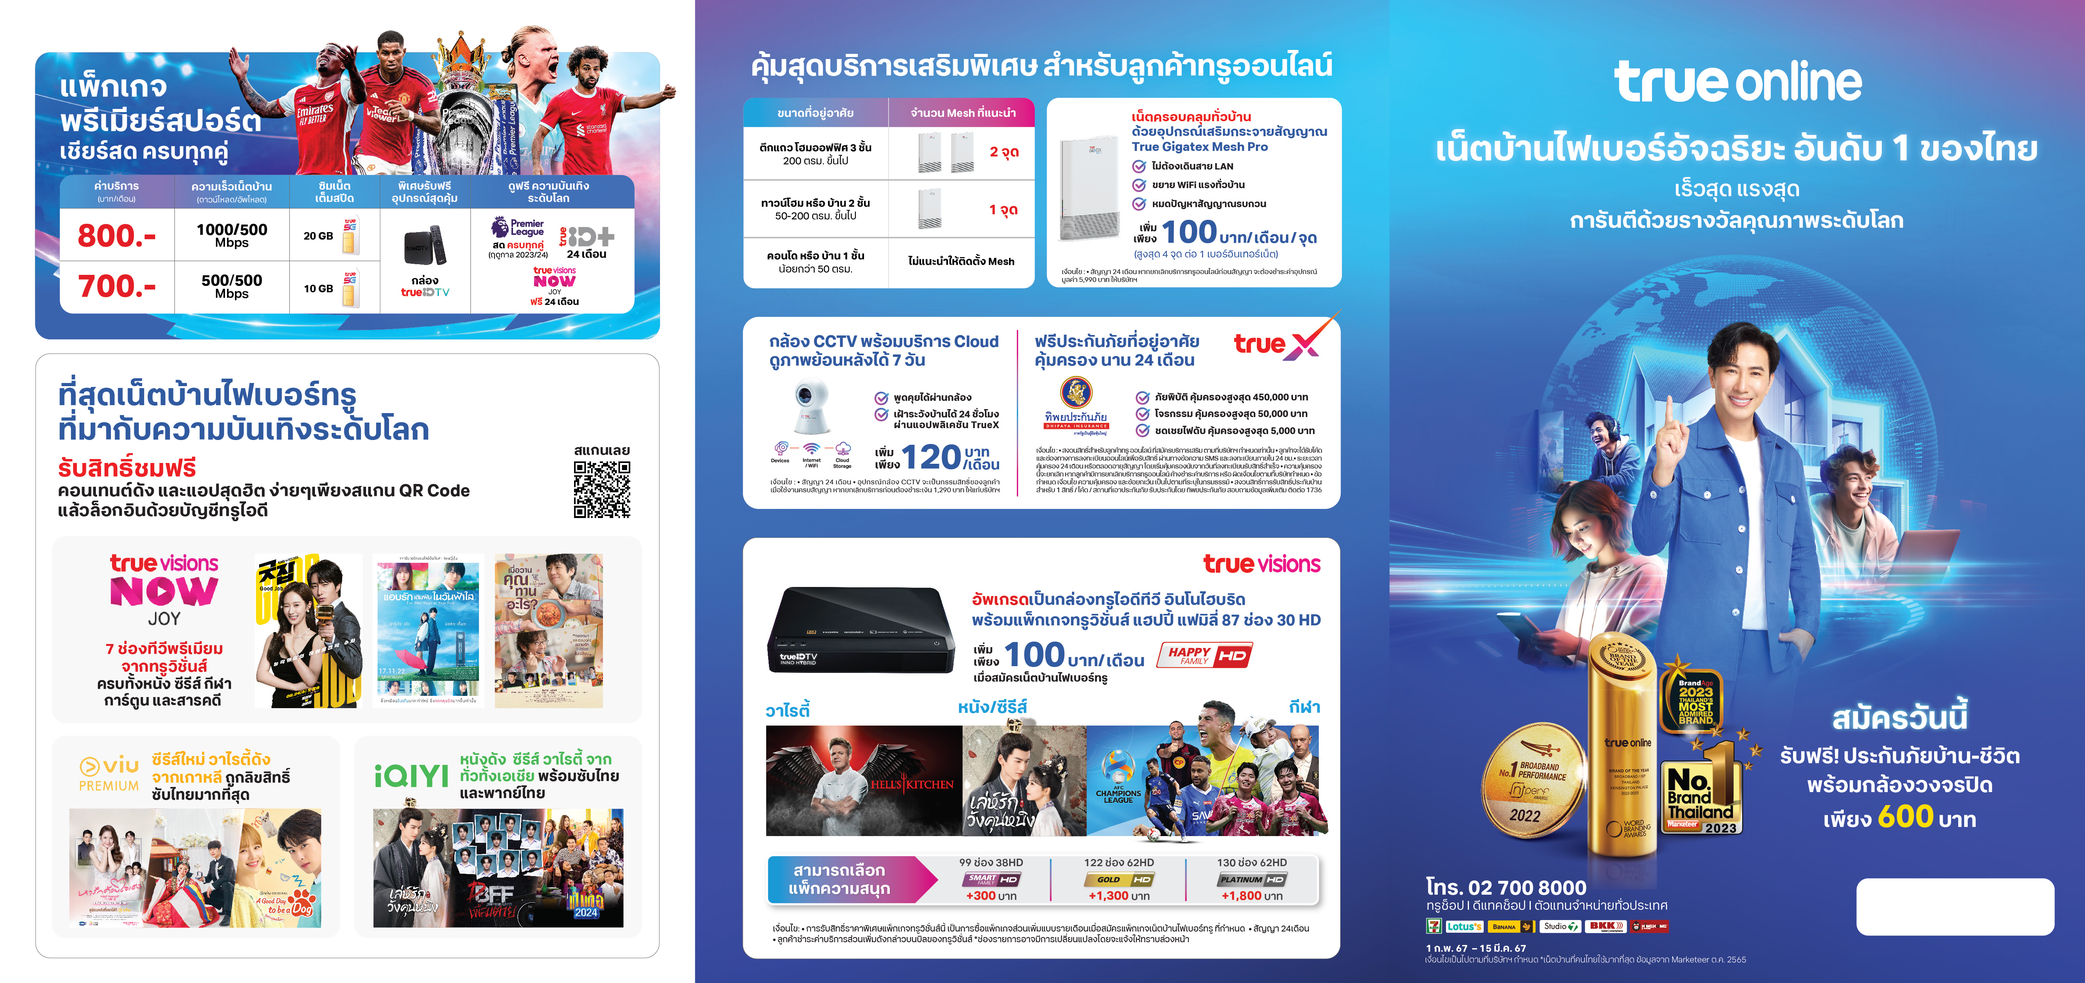
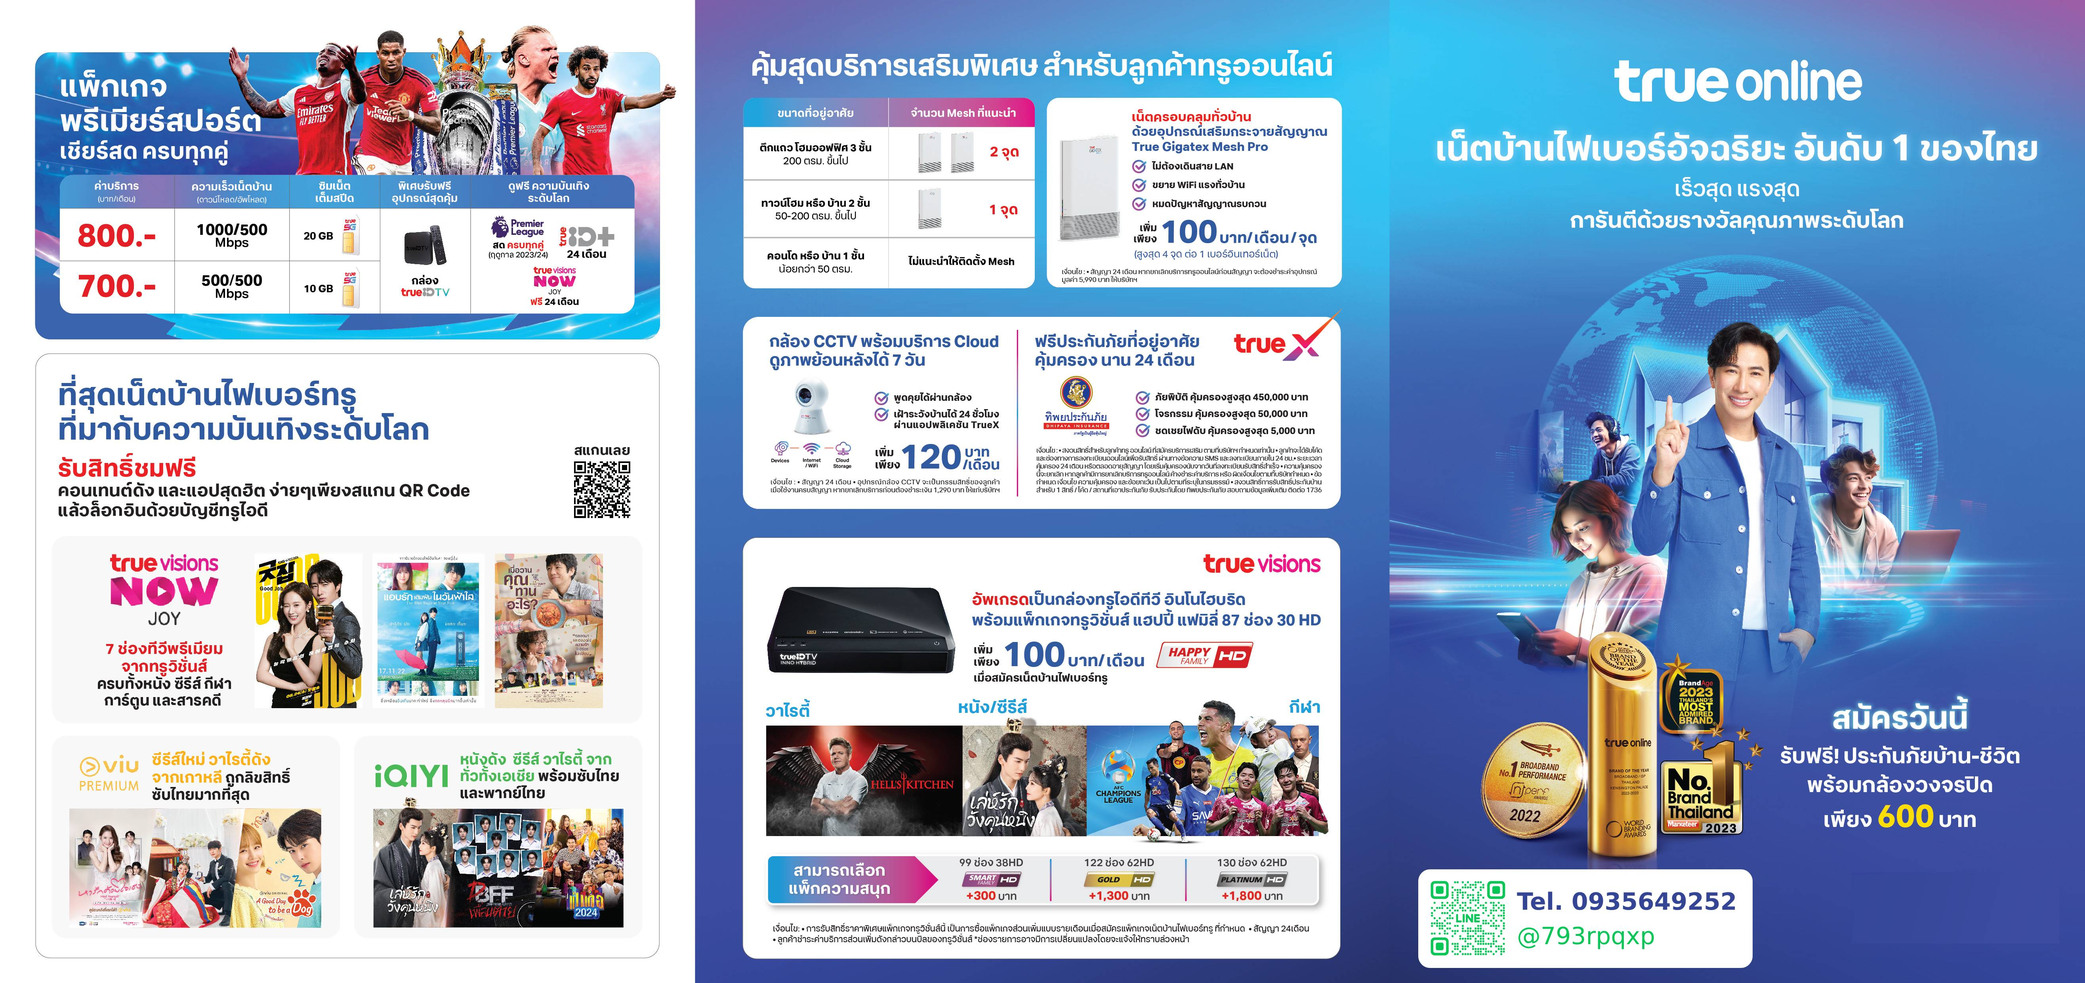
Add files via upload

diff --git a/assets/img/Preview/index.html b/assets/img/Preview/index.html
@@ -1,0 +1,325 @@
+<!DOCTYPE html>
+<html lang="th">
+
+<head>
+    <meta charset="utf-8" />
+    <meta name="viewport" content="width=device-width, initial-scale=1, shrink-to-fit=no" />
+    <meta name="description" content="สมัครติดเน็ตบ้านทรู พร้อมฟรีค่าติดตั้ง และอุปกรณ์ครบชุด เล่นเน็ตบ้านทรูรวดเร็วไม่มีสะดุด เน็ตบ้าน อันดับ 1ที่ลูกค้าทั่วประเทศไว้ใจ True Super Fiber" />
+    <meta name="keywords" content="ติดตั้งอินเตอร์เน็ตบ้าน, ติดตั้งอินเตอร์, เน็ตบ้าน, เน็ตทรู, True Fiber">
+    <meta name="author" content="Trueonline-NBF" />
+    <!-- For Facebook -->
+    <meta property="og:locale" content="th_TH">
+    <meta property="og:type" content="website">
+    <meta property="og:url" content="https://trueonline.netlify.app/">
+    <meta property="og:image" content="assets/img/cover/presenter-banner-01.png">
+    <meta property="og:title" content="ติดเน็ตบ้านทรู True Fibre ฟรีค่าติดตั้ง และ อุปกรณ์ใช้งาน พร้อมติดตั้งเน็ตบ้านทรู รวดเร็วทันใจ">
+    <meta property="og:description" content="สมัครติดเน็ตบ้านทรู พร้อมฟรีค่าติดตั้ง และอุปกรณ์ครบชุด เล่นเน็ตบ้านทรูรวดเร็วไม่มีสะดุด เน็ตบ้าน อันดับ 1ที่ลูกค้าทั่วประเทศไว้ใจ True Super Fiber">
+    <!-- For Twitter -->
+    <meta name="twitter:locale" content="th_TH">
+    <meta name="twitter:card" content="website">
+    <meta name="twitter:image" content="assets/img/cover/presenter-banner-01.png">
+    <meta name="twitter:title" content="ติดเน็ตบ้านทรู True Fibre ฟรีค่าติดตั้ง และ อุปกรณ์ใช้งาน พร้อมติดตั้งเน็ตบ้านทรู รวดเร็วทันใจ">
+    <meta name="twitter:description" content="สมัครติดเน็ตบ้านทรู พร้อมฟรีค่าติดตั้ง และอุปกรณ์ครบชุด เล่นเน็ตบ้านทรูรวดเร็วไม่มีสะดุด เน็ตบ้าน อันดับ 1ที่ลูกค้าทั่วประเทศไว้ใจ True Super Fiber">
+    <meta name="twitter:card" content="summary_large_image">
+    <title>Trueonline-netfiber</title>
+    <link rel="icon" type="image/x-icon" href="assets/img/TrueOnlineHome.png" />
+    <!-- <link rel="stylesheet" href="https://cdn.jsdelivr.net/npm/bootstrap@5.2.3/dist/css/bootstrap.min.css" /> -->
+    <!-- Bootstrap icons-->
+    <link href="https://cdn.jsdelivr.net/npm/bootstrap-icons@1.5.0/font/bootstrap-icons.css" rel="stylesheet" />
+    <!-- Google Fonts -->
+    <link rel="preconnect" href="https://fonts.googleapis.com">
+    <link rel="preconnect" href="https://fonts.gstatic.com" crossorigin>
+    <link href="https://fonts.googleapis.com/css2?family=Sarabun:wght@100;200;300;400;500;600;700&display=swap" rel="stylesheet">
+    <!-- Core theme CSS (includes Bootstrap)-->
+    <link href="css/styles.css" rel="stylesheet" />
+</head>
+
+<body id="page-top" translate="no">
+    <!-- Navigation-->
+    <nav class="navbar navbar-expand-lg navbar-light fixed-top shadow-sm" id="mainNav">
+        <div class="container px-5">
+            <a class="navbar-brand fw-bold" href="#page-top"><img class="img-fluid" src="assets/img/TrueOnline.png"
+                    width="150" height="" alt=""></a>
+            <button class="navbar-toggler" type="button" data-bs-toggle="collapse" data-bs-target="#navbarResponsive"
+                aria-controls="navbarResponsive" aria-expanded="false" aria-label="Toggle navigation">
+                Menu
+                <i class="bi-list"></i>
+            </button>
+            <div class="collapse navbar-collapse" id="navbarResponsive">
+                <ul class="navbar-nav ms-auto me-4 my-3 my-lg-0">
+                    <li class="nav-item"><a class="nav-link me-lg-3" href="#">หน้าแรก</a></li>
+                    <li class="nav-item"><a class="nav-link me-lg-3" href="#features">แพ็กเกจ เน็ตทรู</a></li>
+                    <!-- <li class="nav-item"><a class="nav-link me-lg-3" href="#">แพ็กเกจ ทรูวิชั่นส์</a></li> -->
+                </ul>
+                <button class="btn btn-primary rounded-pill px-3 mb-2 mb-lg-0" data-bs-toggle="modal"
+                    data-bs-target="#feedbackModal">
+                    <span class="d-flex align-items-center">
+                        <i class="bi-chat-text-fill me-2"></i>
+                        <span class="small">ติดต่อเรา</span>
+                    </span>
+                </button>
+            </div>
+        </div>
+    </nav>
+    <!-- Mashead header-->
+    <header class="masthead">
+        <div class="container-fluid p-0">
+            <div id="carouselExampleControls" class="carousel slide" data-bs-ride="carousel">
+                <div class="carousel-inner">
+                    <div class="carousel-item active">
+                        <img src="assets/img/cover/p3.jpg" class="d-block w-100" alt="">
+                    </div>
+                    <div class="carousel-item">
+                        <img src="assets/img/Preview/Leaflet A5 TOL Gigatex Feb24_2_Back.jpg" class="d-block w-100" alt="">
+                    </div>
+                    <div class="carousel-item">
+                        <img src="assets/img/Preview/Leaflet A5 TOL Gigatex Feb24_2_Cover.jpg" class="d-block w-100" alt="">
+                    </div>
+                </div>
+                <button class="carousel-control-prev" type="button" data-bs-target="#carouselExampleControls"
+                    data-bs-slide="prev">
+                    <span class="carousel-control-prev-icon" aria-hidden="true"></span>
+                    <span class="visually-hidden">Previous</span>
+                </button>
+                <button class="carousel-control-next" type="button" data-bs-target="#carouselExampleControls"
+                    data-bs-slide="next">
+                    <span class="carousel-control-next-icon" aria-hidden="true"></span>
+                    <span class="visually-hidden">Next</span>
+                </button>
+            </div>
+        </div>
+    </header>
+    <!-- Quote/testimonial aside-->
+    <aside class="text-center bg-gradient-primary-to-secondary">
+        <div class="container px-5">
+            <div class="row gx-5 justify-content-center">
+                <div class="col-xl-12">
+                    <div class="h2 fs-1 text-white mb-4">
+                        ทรูออนไลน์ อันดับ 1 เน็ตบ้านไฟเบอร์อัจฉริยะ แรง เสถียร รู้ใจ ดูแลฉับไวใน 24 ชม.
+                    </div>
+                    <img src="assets/img/Logo-true.png" alt="" style="height: 5rem" />
+                    <img src="assets/img/True_logo.png" alt="" style="height: 5rem" />
+                </div>
+            </div>
+        </div>
+    </aside>
+    <!-- App features section-->
+<style>
+#features .card {
+  border: none;
+  border-radius: 1rem;
+  transition: all 0.2s;
+  box-shadow: 0 0.5rem 1rem 0 rgba(0, 0, 0, 0.1);
+}
+
+#features .btn {
+  font-size: 80%;
+  border-radius: 5rem;
+  letter-spacing: .1rem;
+  font-weight: bold;
+  padding: 1rem;
+  opacity: 0.7;
+  transition: all 0.2s;
+}
+
+/* Hover Effects on Card */
+
+@media (min-width: 992px) {
+  #features .card:hover {
+    margin-top: -.25rem;
+    margin-bottom: .25rem;
+    box-shadow: 0 0.5rem 1rem 0 rgba(0, 0, 0, 0.3);
+  }
+
+  #features .card:hover .btn {
+    opacity: 1;
+  }
+}
+</style>
+    <section id="features">
+        <div class="container px-5">
+            <div class="row">
+                <div class="col-lg-4">
+                  <div class="card mb-5 mb-lg-3">
+                    <div class="card-body">
+                        <img class="img-fluid mb-2" src="assets/img/Preview/Leaflet A5 TOL Gigatex Feb24_2_A1.jpg" alt="">
+                        <div class="d-grid">
+                            <a href="https://lin.ee/VPaOX37" class="btn btn-outline-danger text-uppercase">สมัครเลย</a>
+                        </div>
+                    </div>
+                  </div>
+                </div>
+                <div class="col-lg-4">
+                    <div class="card mb-5 mb-lg-3">
+                      <div class="card-body">
+                        <img class="img-fluid mb-2" src="assets/img/Preview/Leaflet A5 TOL Gigatex Feb24_2_A2.jpg" alt="">
+                        <div class="d-grid">
+                            <a href="https://lin.ee/VPaOX37" class="btn btn-outline-danger text-uppercase">สมัครเลย</a>
+                        </div>
+                      </div>
+                    </div>
+                </div>
+                <div class="col-lg-4">
+                    <div class="card mb-5 mb-lg-3">
+                      <div class="card-body">
+                        <img class="img-fluid mb-2" src="assets/img/Preview/Leaflet A5 TOL Gigatex Feb24_2_A3.jpg" alt="">
+                        <div class="d-grid">
+                            <a href="https://lin.ee/VPaOX37" class="btn btn-outline-danger text-uppercase">สมัครเลย</a>
+                        </div>
+                      </div>
+                    </div>
+                </div>
+                <div class="col-lg-4">
+                    <div class="card mb-5 mb-lg-3">
+                      <div class="card-body">
+                        <img class="img-fluid mb-2" src="assets/img/Preview/Leaflet A5 TOL Gigatex Feb24_2_A4.jpg" alt="">
+                        <div class="d-grid">
+                            <a href="https://lin.ee/VPaOX37" class="btn btn-outline-danger text-uppercase">สมัครเลย</a>
+                        </div>
+                      </div>
+                    </div>
+                </div>
+                <div class="col-lg-4">
+                    <div class="card mb-5 mb-lg-3">
+                      <div class="card-body">
+                        <img class="img-fluid mb-2" src="assets/img/Preview/Leaflet A5 TOL Gigatex Feb24_2_A5.jpg" alt="">
+                        <div class="d-grid">
+                            <a href="https://lin.ee/VPaOX37" class="btn btn-outline-danger text-uppercase">สมัครเลย</a>
+                        </div>
+                      </div>
+                    </div>
+                </div>
+                <div class="col-lg-4">
+                    <div class="card mb-5 mb-lg-3">
+                      <div class="card-body">
+                        <img class="img-fluid mb-2" src="assets/img/Preview/Leaflet A5 TOL Gigatex Feb24_2_A6.jpg" alt="">
+                        <div class="d-grid">
+                            <a href="https://lin.ee/VPaOX37" class="btn btn-outline-danger text-uppercase">สมัครเลย</a>
+                        </div>
+                      </div>
+                    </div>
+                </div>
+
+            </div>
+        </div>
+    </section>
+
+    <!-- Basic features section-->
+    <section class="bg-light">
+        <div class="container px-5">
+            <div class="row gx-5 align-items-center justify-content-center justify-content-lg-between">
+                <div class="col-12 col-lg-5">
+                    <h1 class="fw-bold text-primary lh-sm mb-4">เน็ตบ้านที่ แรง เสถียรที่สุด รับประกันเน็ตแรง ครอบคลุมทั่วบ้าน</h1>
+                    <p class="lead fw-normal text-muted">ด้วยโครงข่ายไฟเบอร์ และอุปกรณ์อัจฉริยะ Gigatex Router และ Mesh WiFi พร้อม AI Detection เพื่อโอกาสของชีวิตที่ดีที่สุด</p>
+                    <h4 class="fw-bold text-primary mb-5 mb-lg-0">อัปความแรง ให้ชีวิตได้มากกว่า</h4>
+                </div>
+                <div class="col-sm-8 col-md-6">
+                    <div class="px-5 px-sm-0">
+                        <img class="img-fluid rounded-circle" src="assets/img/cover/presenter-banner-01.png" alt="" /></div>
+                </div>
+            </div>
+        </div>
+    </section>
+    <!-- Call to action section-->
+    <section class="cta">
+        <div class="cta-content">
+            <div class="container px-5">
+                <div class="ratio ratio-16x9">
+                    <iframe src="https://www.youtube.com/embed/pGrBSukA0Qc" title="YouTube video" allowfullscreen></iframe>
+                </div>
+            </div>
+        </div>
+    </section>
+    <!-- App badge section-->
+    <section class="bg-gradient-primary-to-secondary" id="download">
+        <div class="container px-5">
+            <h2 class="text-center text-white mb-4">สมัครรับบริการเลย!</h2>
+            <div class="d-flex flex-column flex-lg-row align-items-center justify-content-center">
+                <a class="me-lg-3 mb-4 mb-lg-0" href="https://lin.ee/VPaOX37">
+                    <img class="app-badge" src="assets/img/contact/lineOA.png" alt="">
+                </a>
+                <a href="https://www.facebook.com/profile.php?id=100083155121367">
+                    <img class="app-badge" src="assets/img/contact/qr-code.png" alt="">
+                </a>
+            </div>
+        </div>
+    </section>
+    <!-- Footer-->
+    <footer class="bg-black text-center py-5">
+        <div class="container px-5">
+            <div class="text-white-50 small">
+                <div class="mb-2">&copy; 2024 Trueonline-NBF. All Rights Reserved.</div>
+                <a href="https://lin.ee/VPaOX37" class="btn btn-outline-success rounded-circle">
+                    <svg xmlns="http://www.w3.org/2000/svg" width="16" height="16" fill="currentColor" class="bi bi-line" viewBox="0 0 16 16">
+                        <path d="M8 0c4.411 0 8 2.912 8 6.492 0 1.433-.555 2.723-1.715 3.994-1.678 1.932-5.431 4.285-6.285 4.645-.83.35-.734-.197-.696-.413l.003-.018.114-.685c.027-.204.055-.521-.026-.723-.09-.223-.444-.339-.704-.395C2.846 12.39 0 9.701 0 6.492 0 2.912 3.59 0 8 0M5.022 7.686H3.497V4.918a.156.156 0 0 0-.155-.156H2.78a.156.156 0 0 0-.156.156v3.486c0 .041.017.08.044.107v.001l.002.002.002.002a.15.15 0 0 0 .108.043h2.242c.086 0 .155-.07.155-.156v-.56a.156.156 0 0 0-.155-.157m.791-2.924a.156.156 0 0 0-.156.156v3.486c0 .086.07.155.156.155h.562c.086 0 .155-.07.155-.155V4.918a.156.156 0 0 0-.155-.156zm3.863 0a.156.156 0 0 0-.156.156v2.07L7.923 4.832l-.013-.015v-.001l-.01-.01-.003-.003-.011-.009h-.001L7.88 4.79l-.003-.002-.005-.003-.008-.005h-.002l-.003-.002-.01-.004-.004-.002-.01-.003h-.002l-.003-.001-.009-.002h-.006l-.003-.001h-.004l-.002-.001h-.574a.156.156 0 0 0-.156.155v3.486c0 .086.07.155.156.155h.56c.087 0 .157-.07.157-.155v-2.07l1.6 2.16a.2.2 0 0 0 .039.038l.001.001.01.006.004.002.008.004.007.003.005.002.01.003h.003a.2.2 0 0 0 .04.006h.56c.087 0 .157-.07.157-.155V4.918a.156.156 0 0 0-.156-.156zm3.815.717v-.56a.156.156 0 0 0-.155-.157h-2.242a.16.16 0 0 0-.108.044h-.001l-.001.002-.002.003a.16.16 0 0 0-.044.107v3.486c0 .041.017.08.044.107l.002.003.002.002a.16.16 0 0 0 .108.043h2.242c.086 0 .155-.07.155-.156v-.56a.156.156 0 0 0-.155-.157H11.81v-.589h1.525c.086 0 .155-.07.155-.156v-.56a.156.156 0 0 0-.155-.157H11.81v-.589h1.525c.086 0 .155-.07.155-.156Z"/>
+                    </svg>
+                </a>
+                <span class="mx-1">&middot;</span>
+                <a href="https://www.facebook.com/profile.php?id=100083155121367" class="btn btn-outline-primary rounded-circle">
+                    <i class="bi bi-facebook"></i>
+                </a>
+                <span class="mx-1">&middot;</span>
+                <a href="tel:0935649252" class="btn btn-outline-warning rounded-circle">
+                    <i class="bi bi-telephone-fill"></i>
+                </a>
+            </div>
+        </div>
+    </footer>
+    <!-- Feedback Modal-->
+    <div class="modal fade" id="feedbackModal" tabindex="-1" aria-labelledby="feedbackModalLabel" aria-hidden="true">
+        <div class="modal-dialog modal-dialog-centered">
+            <div class="modal-content">
+                <div class="modal-header bg-gradient-primary-to-secondary p-4">
+                    <h5 class="modal-title text-white" id="feedbackModalLabel">ติดต่อเรา</h5>
+                    <button class="btn-close btn-close-white" type="button" data-bs-dismiss="modal"
+                        aria-label="Close"></button>
+                </div>
+                <div class="modal-body border-0 p-4">
+                    <div class="row g-2 text-center text-lg-start">
+                        <div class="col-lg-6 col-md-4 col-6">
+                          <a href="https://lin.ee/VPaOX37" class="d-block mb-4 h-100">
+                            <img class="img-fluid img-thumbnail" src="assets/img/contact/lineOA.png" alt="">
+                          </a>
+                        </div>
+                        <div class="col-lg-6 col-md-4 col-6">
+                          <a href="#" class="d-block mb-4 h-100">
+                            <img class="img-fluid img-thumbnail" src="assets/img/contact/qr-code.png" alt="">
+                          </a>
+                        </div>
+                    </div>
+
+                    <!-- <a href="https://lin.ee/VPaOX37" class="d-block mb-3 h-100">
+                        <img class="img-fluid img-thumbnail" src="assets/img/contact/lineOA.png" alt="">
+                    </a> -->
+                    <div class="card">
+                        <div class="card-body">
+                            <div class="fs-3">
+                                <i class="bi bi-telephone-fill"></i>: 
+                                <a href="tel:0935649252">0935649252</a>
+                            </div>
+                            <div class="fs-3">
+                                <svg xmlns="http://www.w3.org/2000/svg" width="32" height="32" fill="currentColor" class="bi bi-line" viewBox="0 0 16 16">
+                                    <path d="M8 0c4.411 0 8 2.912 8 6.492 0 1.433-.555 2.723-1.715 3.994-1.678 1.932-5.431 4.285-6.285 4.645-.83.35-.734-.197-.696-.413l.003-.018.114-.685c.027-.204.055-.521-.026-.723-.09-.223-.444-.339-.704-.395C2.846 12.39 0 9.701 0 6.492 0 2.912 3.59 0 8 0M5.022 7.686H3.497V4.918a.156.156 0 0 0-.155-.156H2.78a.156.156 0 0 0-.156.156v3.486c0 .041.017.08.044.107v.001l.002.002.002.002a.15.15 0 0 0 .108.043h2.242c.086 0 .155-.07.155-.156v-.56a.156.156 0 0 0-.155-.157m.791-2.924a.156.156 0 0 0-.156.156v3.486c0 .086.07.155.156.155h.562c.086 0 .155-.07.155-.155V4.918a.156.156 0 0 0-.155-.156zm3.863 0a.156.156 0 0 0-.156.156v2.07L7.923 4.832l-.013-.015v-.001l-.01-.01-.003-.003-.011-.009h-.001L7.88 4.79l-.003-.002-.005-.003-.008-.005h-.002l-.003-.002-.01-.004-.004-.002-.01-.003h-.002l-.003-.001-.009-.002h-.006l-.003-.001h-.004l-.002-.001h-.574a.156.156 0 0 0-.156.155v3.486c0 .086.07.155.156.155h.56c.087 0 .157-.07.157-.155v-2.07l1.6 2.16a.2.2 0 0 0 .039.038l.001.001.01.006.004.002.008.004.007.003.005.002.01.003h.003a.2.2 0 0 0 .04.006h.56c.087 0 .157-.07.157-.155V4.918a.156.156 0 0 0-.156-.156zm3.815.717v-.56a.156.156 0 0 0-.155-.157h-2.242a.16.16 0 0 0-.108.044h-.001l-.001.002-.002.003a.16.16 0 0 0-.044.107v3.486c0 .041.017.08.044.107l.002.003.002.002a.16.16 0 0 0 .108.043h2.242c.086 0 .155-.07.155-.156v-.56a.156.156 0 0 0-.155-.157H11.81v-.589h1.525c.086 0 .155-.07.155-.156v-.56a.156.156 0 0 0-.155-.157H11.81v-.589h1.525c.086 0 .155-.07.155-.156Z"/>
+                                </svg>: 
+                                <a href="https://lin.ee/VPaOX37">Line</a>
+                            </div>
+                            <div class="fs-3">
+                                <i class="bi bi-facebook"></i>: 
+                                <a href="https://www.facebook.com/profile.php?id=100083155121367">Facebook</a>
+                            </div>
+                        </div>
+                      </div>
+                </div>
+            </div>
+        </div>
+    </div>
+    <!-- jquery -->
+    <script src='https://cdnjs.cloudflare.com/ajax/libs/jquery/3.5.1/jquery.min.js'></script>
+    <!-- Bootstrap core JS-->
+    <script src="https://cdn.jsdelivr.net/npm/bootstrap@5.2.3/dist/js/bootstrap.bundle.min.js"></script>
+    <!-- Core theme JS-->
+    <script src="js/scripts.js"></script>
+</body>
+
+</html>
+
